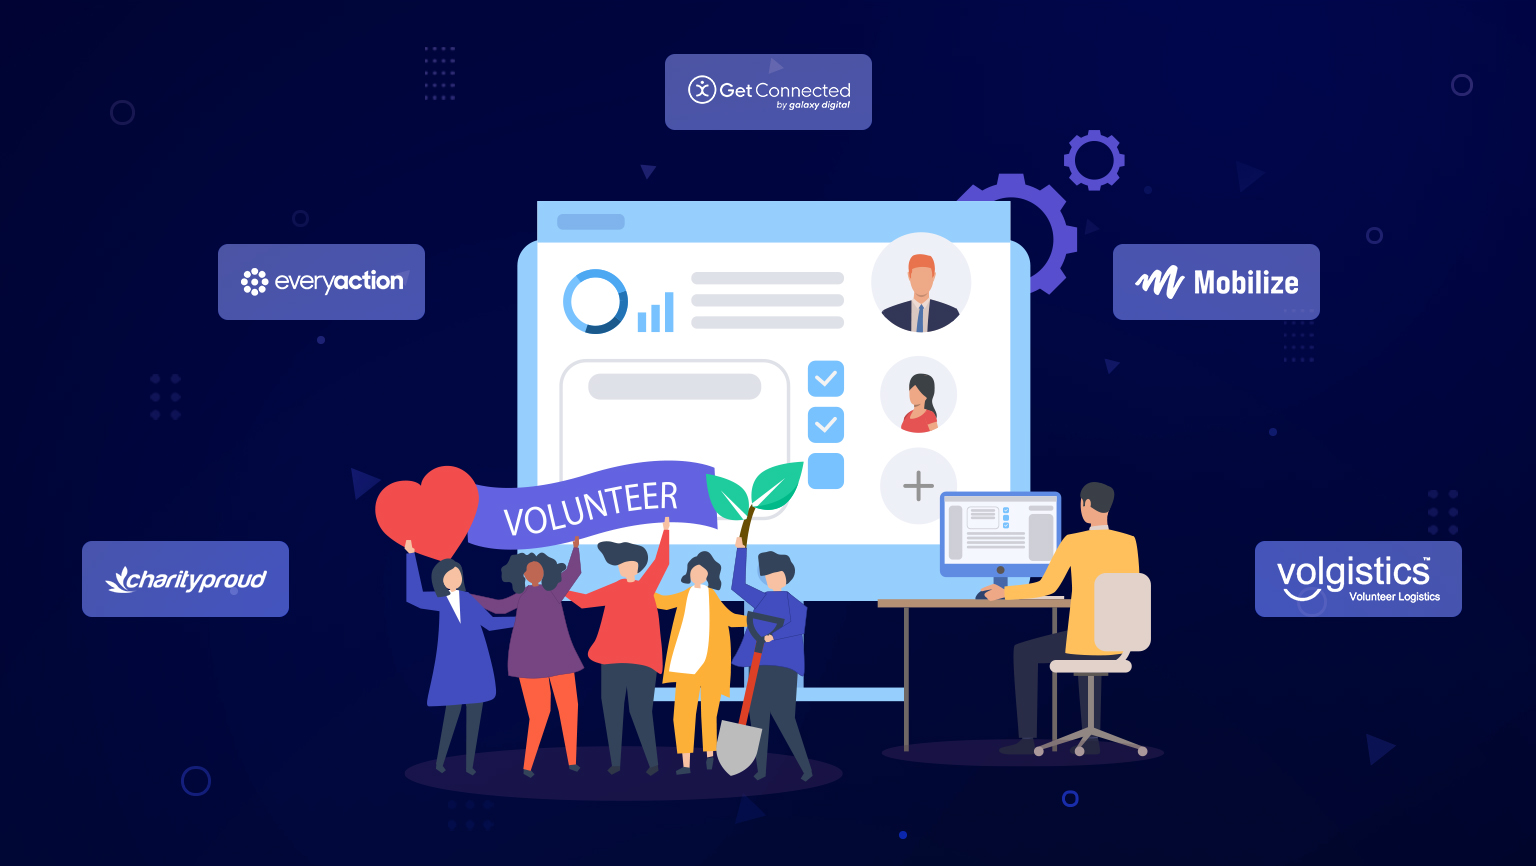
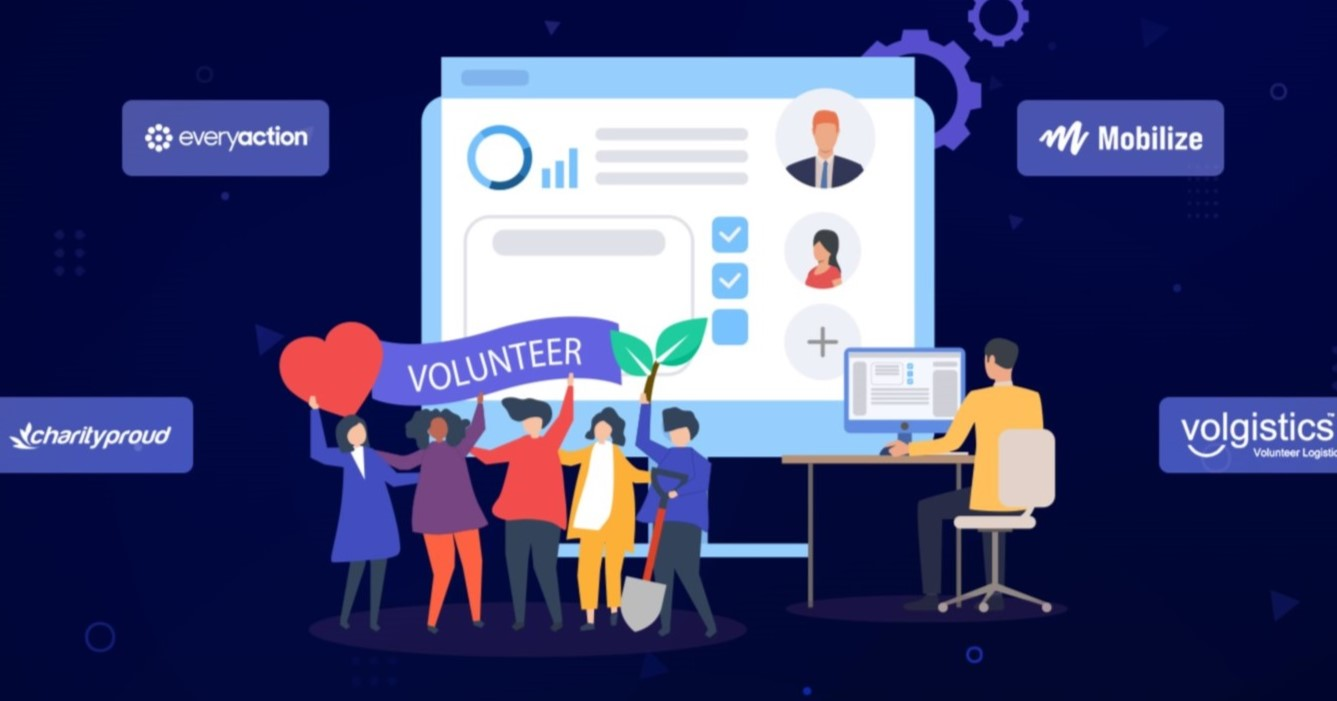
Project images updated. Project description added. Project section completed. Database design skill modified

diff --git a/src/components/projects/Projects.js b/src/components/projects/Projects.js
@@ -20,48 +20,43 @@ const Projects = () => {
       <div className="grid grid-cols-1 md:grid-cols-2 xl:grid-cols-3 gap-6 xl:gap-14">
         <ProjectsCard
           title="PolarSled Govern"
-          des=" Lorem, ipsum dolor sit amet consectetur adipisicing elit.
-              Explicabo quibusdam voluptate sapiente voluptatibus harum quidem!"
+          des="Developed and deployed PolarSled Govern Framework - A governance platform providing a 360-degree view of Snowflake. I served as lead developer for two PolarSled accelerators - Sentry and Daily Briefing."
           src={projectOne}
           icon={<FaGlobe/>}
           link="https://www.ltimindtree.com/polarsled/"
         />
         <ProjectsCard
           title="Real time Data Streaming"
-          des=" Lorem, ipsum dolor sit amet consectetur adipisicing elit.
-              Explicabo quibusdam voluptate sapiente voluptatibus harum quidem!"
+          des="The project demonstrates an end-to-end data pipeline using Apache Kafka to fetch and stream data from a website. The project is containerized with Docker for streamlined deployment and dependency management."
           src={projectTwo}
           icon={<BsGithub />}
           link="https://github.com/MuskanRaisinghani23/Real-Time-Data-Streaming"
         />
         <ProjectsCard
           title="Cloud Campus"
-          des=" Lorem, ipsum dolor sit amet consectetur adipisicing elit.
-              Explicabo quibusdam voluptate sapiente voluptatibus harum quidem!"
+          des="
+          CloudCampus is a Decentralized Virtual Education Platform designed to enhance the education system and provide equal opportunities for students. The project is implemented using Java Swing and JDBC."
           src={projectThree}
           icon={<BsGithub />}
           link="https://github.com/MuskanRaisinghani23/CloudCampus"
         />
         <ProjectsCard
           title="Credit Card Approval Prediction System"
-          des=" Lorem, ipsum dolor sit amet consectetur adipisicing elit.
-              Explicabo quibusdam voluptate sapiente voluptatibus harum quidem!"
+          des="The Credit Card Approval Prediction system leverages regression models, AutoML, SHAP analysis, and advanced data visualization techniques. This comprehensive system showcases a blend of sophisticated modeling, automation, and interpretability."
           src={projectFour}
           icon={<BsGithub />}
           link="https://github.com/MuskanRaisinghani23/CreditCardApprovalPrediction"
         />
         <ProjectsCard
           title="Investment Analysis and Portfolio Management"
-          des=" Lorem, ipsum dolor sit amet consectetur adipisicing elit.
-              Explicabo quibusdam voluptate sapiente voluptatibus harum quidem!"
+          des="This data analytics project uses python's robust modules including Pandas, NumPy, Matplotlib, Seaborn, and Statistics, working extensively with real world Finance data. The project determines powerful relationships between risk, return, and price."
           src={projectFive}
           icon={<BsGithub />}
           link="https://github.com/MuskanRaisinghani23/Investment-Analysis-and-Portfolio-Management"
         />
         <ProjectsCard
           title="Volunteer Management System"
-          des=" Lorem, ipsum dolor sit amet consectetur adipisicing elit.
-              Explicabo quibusdam voluptate sapiente voluptatibus harum quidem!"
+          des="The project functions as a worldwide platform that facilitates communication between volunteers and organizations in need. Constructed using Java in NetBeans, the goal of the project is to build centralized system for Volunteers."
           src={projectSix}
           icon={<BsGithub />}
           link="https://github.com/MuskanRaisinghani23/VolunteerManagement"
@@ -70,9 +65,11 @@ const Projects = () => {
 
       <div className="flex justify-center items-center text-center mt-20">
         <a href='https://github.com/MuskanRaisinghani23' target='_blank'>
-          <Title
-            title="View more"
-          />
+        <div className="flex flex-col gap-4 font-titleFont">
+          <h3 className="text-sm uppercase font-light text-designColor tracking-wide">
+            <u>VIEW MORE</u>
+          </h3>
+        </div>
         </a>
       </div>
     </section>

diff --git a/src/components/resume/Skills.js b/src/components/resume/Skills.js
@@ -158,15 +158,15 @@ const Skills = () => {
             </span>
           </div>
           <div className="overflow-x-hidden">
-            <p className="text-sm uppercase font-medium">Database Design</p>
+            <p className="text-sm uppercase font-medium">Flask</p>
             <span className="w-full h-2 bgOpacity rounded-md inline-flex mt-2">
               <motion.span
                 initial={{ x: "-100%", opacity: 0 }}
                 animate={{ x: 0, opacity: 1 }}
                 transition={{ duration: 0.5, delay: 0.5 }}
-                className="w-[80%] h-full bg-gradient-to-r from-blue-600 via-pink-500 to-red-500 rounded-md relative"
+                className="w-[90%] h-full bg-gradient-to-r from-blue-600 via-pink-500 to-red-500 rounded-md relative"
               >
-                <span className="absolute -top-7 right-0">80%</span>
+                <span className="absolute -top-7 right-0">90%</span>
               </motion.span>
             </span>
           </div>
@@ -177,9 +177,9 @@ const Skills = () => {
                 initial={{ x: "-100%", opacity: 0 }}
                 animate={{ x: 0, opacity: 1 }}
                 transition={{ duration: 0.5, delay: 0.5 }}
-                className="w-[95%] h-full bg-gradient-to-r from-blue-600 via-pink-500 to-red-500 rounded-md relative"
+                className="w-[85%] h-full bg-gradient-to-r from-blue-600 via-pink-500 to-red-500 rounded-md relative"
               >
-                <span className="absolute -top-7 right-0">95%</span>
+                <span className="absolute -top-7 right-0">85%</span>
               </motion.span>
             </span>
           </div>

diff --git a/src/components/projects/ProjectsCard.js b/src/components/projects/ProjectsCard.js
@@ -4,11 +4,13 @@ const ProjectsCard = ({ title, des, src, icon, link }) => {
   return (
     <div className="w-full p-4 xl:px-12 h-auto xl:py-10 rounded-lg shadow-shadowOne flex flex-col bg-gradient-to-r from-bodyColor to-[#202327] group hover:bg-gradient-to-b hover:from-gray-900 hover:gray-900 transition-colors duration-1000">
       <div className="w-full h-[80%] overflow-hidden rounded-lg">
-        <img
-          className="w-full h-60 object-cover group-hover:scale-110 duration-300 cursor-pointer"
-          src={src}
-          alt="src"
-        />
+        <a href={link} target='_blank'>
+          <img
+            className="w-full h-60 object-cover group-hover:scale-110 duration-300 cursor-pointer"
+            src={src}
+            alt="src"
+          />
+        </a>
       </div>
       <div className="w-full mt-5 flex flex-col  gap-6">
         <div>

diff --git a/src/assets/index.js b/src/assets/index.js
@@ -1,10 +1,10 @@
 import logo from "./images/logo.PNG";
 import bannerImg from "./images/bannerImg.png";
 import projectOne from "./images/projects/projectOne.JPG";
-import projectTwo from "./images/projects/projectTwo.jpg";
+import projectTwo from "./images/projects/projectTwo.png";
 import projectThree from "./images/projects/projectThree.png";
 import projectFour from "./images/projects/projectFour.png";
-import projectFive from "./images/projects/projectFive.jpg";
+import projectFive from "./images/projects/projectFive.png";
 import projectSix from "./images/projects/projectSix.jpg";
 import testimonialOne from "./images/testmonial/testimonialOne.png";
 import testimonialTwo from "./images/testmonial/testimonialTwo.png";
